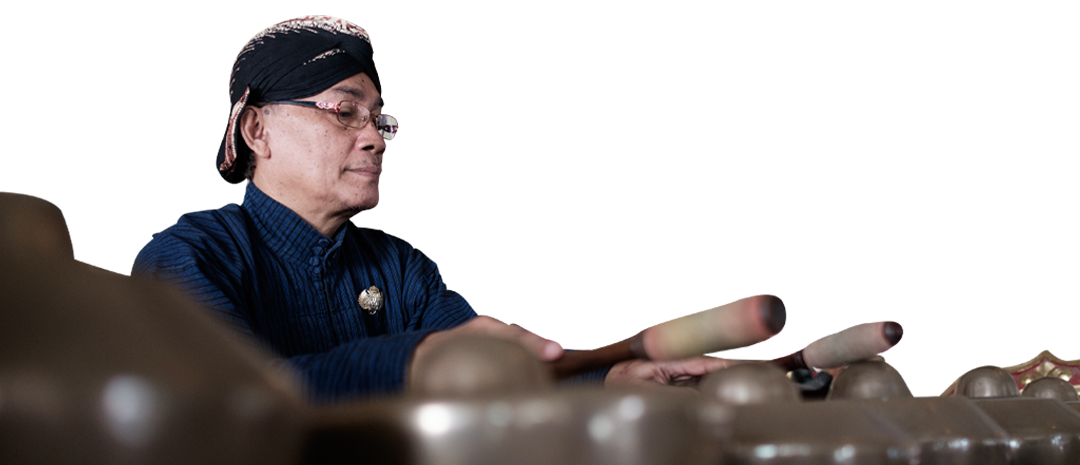
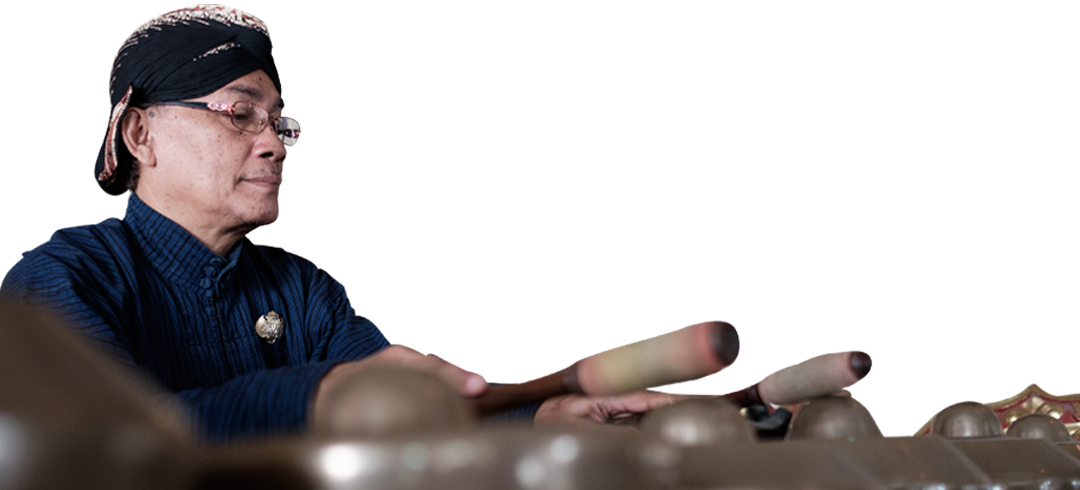
section 3 new

diff --git a/warisan-budaya-takbenda-indonesia-wbtbi-apa-itu/src/components/custom-components/CustomImageC.tsx b/warisan-budaya-takbenda-indonesia-wbtbi-apa-itu/src/components/custom-components/CustomImageC.tsx
@@ -3,18 +3,37 @@
 import { baseUrl } from "@/constants/meta";
 import { motion } from "framer-motion";
 
+const fadeUp = {
+  hidden: { opacity: 0, y: 40 },
+  visible: { opacity: 1, y: 0 },
+};
+
+const listContainer = {
+  hidden: {},
+  visible: {
+    transition: {
+      staggerChildren: 0.08,
+    },
+  },
+};
+
+const listItem = {
+  hidden: { opacity: 0, y: 20 },
+  visible: { opacity: 1, y: 0 },
+};
+
 export function CustomImageC() {
   return (
     <div className="relative flex flex-col items-center overflow-hidden">
       <div className="absolute h-[10rem] bg-gradient-to-b from-[#f6f0fa] z-20 w-full inset-x-0 top-0"></div>
-      <div className="absolute h-[10rem] bg-gradient-to-t from-[#d9dcf2] z-20 w-full inset-x-0 bottom-0"></div>
+      <div className="absolute h-[10rem] bg-gradient-to-t from-[#d9dcf2] z-40 w-full inset-x-0 bottom-0"></div>
       <div
         className="relative w-full justify-center bg-cover bg-center pt-16 md:pt-24"
         style={{ backgroundImage: `url(${baseUrl}/assets/3.8.png)` }}
       >
-        <div className="relative mx-auto max-w-4xl lg:px-0 px-4">
+        <div className="relative mx-auto max-w-4xl lg:px-0 px-4 z-10">
           <motion.div
-            className="md:hidden bg-white px-4 md:px-8 py-4 md:py-6 w-[88%]"
+            className="bg-white px-4 md:px-8 py-4 md:py-6 w-[88%]"
             initial={{ opacity: 0, y: 40 }}
             whileInView={{ opacity: 1, y: 0 }}
             transition={{ duration: 0.8, ease: "easeOut" }}
@@ -26,197 +45,161 @@ export function CustomImageC() {
             <motion.p className="font-sora text-[#2A2828] text-base md:text-2xl !leading-relaxed w-full md:w-[76%]">
               Ada sejumlah WBTbI yang telah diakui sebagai Intangible Cultural Heritage (IHC) oleh Organisasi Pendidikan, Keilmuan, dan Kebudayaan PBB (UNESCO)            </motion.p>
           </motion.div>
-          <motion.img
-            src={`${baseUrl}/assets/3.1.png`}
-            alt="reog ponorogo"
-            className="relative md:static mx-auto w-[80%] lg:mt-0 md:mt-20 md:pb-20 lg:pb-0 z-20"
-            initial={{ opacity: 0, y: 40 }}
-            whileInView={{ opacity: 1, y: 0 }}
-            transition={{ duration: 0.8, ease: "easeOut" }}
-            viewport={{ once: true }}
-          />
-          <motion.div
-            className="hidden md:block absolute md:-top-24 lg:top-8 left-0 bg-white px-4 md:px-8 py-4 md:py-6 w-[88%]"
-            initial={{ opacity: 0, y: 40 }}
-            whileInView={{ opacity: 1, y: 0 }}
-            transition={{ duration: 0.8, ease: "easeOut" }}
-            viewport={{ once: true }}
-          >
-            <motion.h2 className="font-sora text-[#C02220] font-bold text-3xl md:text-[52px] mb-2 lg:mb-6 md:!leading-snug leading-snug">
-              Warisan Budaya Takbenda Indonesia Mendunia!
-            </motion.h2>
-            <motion.p className="font-sora text-[#2A2828] text-base md:text-2xl leading-relaxed w-[76%]">
-              Ada sejumlah WBTbI yang telah diakui sebagai Intangible Cultural Heritage (IHC) oleh Organisasi Pendidikan, Keilmuan, dan Kebudayaan PBB (UNESCO)            </motion.p>
-          </motion.div>
-          <motion.img
-            src={`${baseUrl}/assets/3.2.png`}
-            alt="penari"
-            className="hidden md:block absolute top-[20%] right-0 w-[38%]"
-            initial={{ opacity: 0, y: 40 }}
-            whileInView={{ opacity: 1, y: 0 }}
-            transition={{ duration: 0.8, ease: "easeOut", delay: 0.2 }}
-            viewport={{ once: true }}
-          />
-          <div className="flex absolute bottom-0 items-end">
+        </div>
+        <div className="relative mx-auto max-w-4xl">
+          <div className="relative flex flex-col md:flex-row items-center md:items-stretch">
             <motion.div
-              className="hidden md:block bottom-0 left-0 w-[40%] bg-[#EACD86] px-4 md:px-6 py-4 md:py-6"
-              initial={{ opacity: 0, y: 40 }}
-              whileInView={{ opacity: 1, y: 0 }}
-              transition={{ duration: 0.8, ease: "easeOut" }}
+              className="w-full md:w-[40%] px-4 md:px-6 py-4 md:py-12 bg-[#862625]"
+              initial="hidden"
+              whileInView="visible"
               viewport={{ once: true }}
+              transition={{ duration: 0.6, ease: "easeOut" }}
             >
               <motion.p
-                className="font-sora text-[#2A2828] text-base md:text-2xl leading-relaxed"
-                initial={{ opacity: 0, y: 20 }}
-                whileInView={{ opacity: 1, y: 0 }}
-                transition={{ duration: 0.6, ease: "easeOut", delay: 0.2 }}
-                viewport={{ once: true }}
+                variants={fadeUp}
+                className="font-sora text-white font-bold text-2xl md:text-4xl lg:text-[30px] mb-6 md:mb-14 md:!leading-[1.2] leading-snug w-full"
               >
-                Setidaknya terdapat 16 WBTbI yang diakui sebagai IHC UNESCO
+                WBTbI yang sudah diinkripsi UNESCO
               </motion.p>
-              <motion.p
-                className="font-sora mt-6 text-[#2A2828] text-base md:text-2xl leading-relaxed md:mb-10"
-                initial={{ opacity: 0, y: 20 }}
-                whileInView={{ opacity: 1, y: 0 }}
-                transition={{ duration: 0.6, ease: "easeOut", delay: 0.4 }}
-                viewport={{ once: true }}
+              <motion.div
+                className="font-sora text-white text-base md:text-2xl leading-relaxed mb-4 md:mb-6"
+                variants={listContainer}
               >
-                Terbaru, Reog Ponorogo, Kebaya, dan Kolintang, mendapat pengakuan pada Desember 2024 lalu
-              </motion.p>
+                {[
+                  ["Keris", 2008],
+                  ["Wayang", 2008],
+                  ["Batik", 2009],
+                  ["Pendidikan dan Pelatihan Batik", 2009],
+                  ["Angklung", 2010],
+                  ["Tari Saman", 2011],
+                  ["Noken", 2012],
+                  ["Tiga Genre Tarian Tradisional Bali", 2015],
+                  ["Pinisi", 2017],
+                  ["Pencak Silat", 2019],
+                  ["Pantun", 2020],
+                  ["Gamelan", 2021],
+                  ["Jamu", 2023],
+                  ["Reog Ponorogo", 2024],
+                  ["Kebaya", 2024],
+                  ["Kolintang", 2024],
+                ].map(([title, year], index) => (
+                  <motion.p key={index} className="mb-2" variants={listItem}>
+                    <span className="font-bold">{title}</span> ({year})
+                  </motion.p>
+                ))}
+              </motion.div>
             </motion.div>
+            <div className="relative w-full md:w-1/2 pb-[50%] lg:pb-[36%]">
+              <div className="relative md:pb-4 z-20">
+                <div className="relative overflow-hidden">
+                  <motion.img
+                    src={`${baseUrl}/assets/3.1.png`}
+                    alt="reog ponorogo"
+                    className="-mt-40 w-full"
+                    initial={{ opacity: 0, y: 40 }}
+                    whileInView={{ opacity: 1, y: 0 }}
+                    transition={{ duration: 0.8, ease: "easeOut" }}
+                    viewport={{ once: true }}
+                  />
+                </div>
+                <div className="absolute -top-[60%] -right-10 md:-right-20 w-[60%] md:w-[70%] z-10">
+                  <motion.img
+                    src={`${baseUrl}/assets/3.2.png`}
+                    alt="penari"
+                    className="w-full"
+                    initial={{ opacity: 0, y: 40 }}
+                    whileInView={{ opacity: 1, y: 0 }}
+                    transition={{ duration: 0.8, ease: "easeOut", delay: 0.2 }}
+                    viewport={{ once: true }}
+                  />
+                </div>
+                <div className="absolute -bottom-9 -left-20 w-[75%] md:w-[85%]">
+                  <motion.img
+                    src={`${baseUrl}/assets/3.5.png`}
+                    alt="penari"
+                    className=""
+                    initial={{ opacity: 0, y: 80, scale: 1 }}
+                    whileInView={{ opacity: 1, y: 0, scale: 1 }}
+                    transition={{
+                      duration: 1.1,
+                      ease: [0.22, 1, 0.36, 1],
+                      delay: 0.2,
+                    }}
+                    viewport={{ once: true }}
+                  />
+                </div>
+                <motion.img
+                  src={`${baseUrl}/assets/3.3.png`}
+                  alt="Silat"
+                  className="absolute right-0 md:-right-10 bottom-0 z-40 w-[80%]"
+                  initial={{ opacity: 0, scale: 1, y: 40 }}
+                  whileInView={{ opacity: 1, scale: 1.25, y: 0 }}
+                  transition={{ duration: 0.8, ease: 'easeOut', delay: 0.6 }}
+                  viewport={{ once: true }}
+                />
+              </div>
+              <div className="w-full mb-4 md:mb-20 z-40 pl-4 md:pl-10 pt-6 md:pt-14">
+                <motion.h3 className="font-sora text-[#C02220] md:mt-0 mt-[10%] font-bold text-2xl md:text-4xl lg:text-[36px] mb-6 md:mb-8 md:!leading-[1.2] leading-snug w-full"
+                  initial={{ opacity: 0, y: 40 }}
+                  whileInView={{ opacity: 1, y: 0 }}
+                  transition={{ duration: 0.8, ease: "easeOut" }}
+                  viewport={{ once: true }}>
+                  Mengapa pengakuan internasional atas WBTbI penting?
+                </motion.h3>
+                <motion.p className="font-sora text-[#2A2828] text-base md:text-2xl mb-6 md:mb-8 leading-relaxed w-full"
+                  initial={{ opacity: 0, y: 40 }}
+                  whileInView={{ opacity: 1, y: 0 }}
+                  transition={{ duration: 0.8, ease: "easeOut", delay: 0.2 }}
+                  viewport={{ once: true }}>
+                  Menegaskan identitas bangsa dan membentuk citra Indonesia sebagai bangsa kaya akan keberagaman budaya
+                </motion.p>
+                <motion.p className="font-sora text-[#2A2828] text-base md:text-2xl mb-6 md:mb-8 leading-relaxed w-full"
+                  initial={{ opacity: 0, y: 40 }}
+                  whileInView={{ opacity: 1, y: 0 }}
+                  transition={{ duration: 0.8, ease: "easeOut", delay: 0.2 }}
+                  viewport={{ once: true }}>
+                  Medium diplomasi lunak <span className="italic"><br />(soft power diplomacy)  </span>   </motion.p>
+                <motion.p className="font-sora text-[#2A2828] text-base md:text-2xl mb-6 md:mb-8 leading-relaxed w-full"
+                  initial={{ opacity: 0, y: 40 }}
+                  whileInView={{ opacity: 1, y: 0 }}
+                  transition={{ duration: 0.8, ease: "easeOut", delay: 0.2 }}
+                  viewport={{ once: true }}>
+                  Mendorong perekonomian dengan mengemas budaya sebagai daya tarik wisata dan ekonomi kreatif</motion.p>
+              </div>
+            </div>
+          </div>
+          <div className="">
             <motion.img
-              src={`${baseUrl}/assets/3.2.png`}
-              alt="penari"
-              className="md:hidden absolute bottom-0 z-40 left-0 w-[30%]"
+              src={`${baseUrl}/assets/3.4.png`}
+              alt="Silat"
+              className="absolute right-0 md:-right-20 bottom-3 md:bottom-0 z-20 w-[30%]"
+              initial={{ opacity: 0, scale: 1, y: 40 }}
+              whileInView={{ opacity: 1, scale: 1.25, y: 0 }}
+              transition={{ duration: 0.8, ease: 'easeOut', delay: 0.6 }}
+              viewport={{ once: true }}
+            />
+            <motion.img
+              src={`${baseUrl}/assets/3.9.png`}
+              alt="Jamu"
+              className="absolute  left-[55%] bottom-10 md:bottom-28 z-10 w-[25%] md:w-[25%]"
               initial={{ opacity: 0, y: 40 }}
-              whileInView={{ opacity: 1, y: 0 }}
-              transition={{ duration: 0.8, ease: "easeOut", delay: 0.2 }}
+              whileInView={{ opacity: 1, scale: 1.6, y: 0 }}
+              transition={{ duration: 0.8, ease: "easeOut", delay: 0.4 }}
               viewport={{ once: true }}
             />
             <motion.img
-              src={`${baseUrl}/assets/3.3.png`}
-              alt="reog ponorogo"
-              className="w-[60%] ml-auto md:ml-0 z-30"
-              initial={{ opacity: 0, y: 80, scale: 0.95 }}
-              whileInView={{ opacity: 1, y: 0, scale: 1 }}
-              transition={{
-                duration: 1.1,
-                ease: [0.22, 1, 0.36, 1],
-                delay: 0.2,
-              }}
+              src={`${baseUrl}/assets/3.6.png`}
+              alt="Orang"
+              className="absolute left-[35%] md:left-[35%] bottom-0 z-30 w-[35%] md:w-[40%]"
+              initial={{ opacity: 0, y: 40 }}
+              whileInView={{ opacity: 1, scale: 1.6, y: 0 }}
+              transition={{ duration: 0.8, ease: "easeOut", delay: 0.4 }}
               viewport={{ once: true }}
             />
-          </div>
-        </div>
-        <motion.div
-          className="md:hidden bottom-0 left-0 w-full bg-[#EACD86] px-4 md:px-6 py-4 md:py-6"
-          initial={{ opacity: 0, y: 40 }}
-          whileInView={{ opacity: 1, y: 0 }}
-          transition={{ duration: 0.8, ease: "easeOut" }}
-          viewport={{ once: true }}
-        >
-          <motion.p
-            className="font-sora text-[#2A2828] text-base md:text-2xl leading-relaxed"
-            initial={{ opacity: 0, y: 20 }}
-            whileInView={{ opacity: 1, y: 0 }}
-            transition={{ duration: 0.6, ease: "easeOut", delay: 0.2 }}
-            viewport={{ once: true }}
-          >
-            Setidaknya terdapat 16 WBTbI yang diakui sebagai IHC UNESCO
-          </motion.p>
-          <motion.p
-            className="font-sora mt-6 text-[#2A2828] text-base md:text-2xl leading-relaxed md:mb-10"
-            initial={{ opacity: 0, y: 20 }}
-            whileInView={{ opacity: 1, y: 0 }}
-            transition={{ duration: 0.6, ease: "easeOut", delay: 0.4 }}
-            viewport={{ once: true }}
-          >
-            Terbaru, Reog Ponorogo, Kebaya, dan Kolintang, mendapat pengakuan pada Desember 2024 lalu
-          </motion.p>
-        </motion.div>
-        <div className="relative pt-10 md:py-8 max-w-4xl mx-auto px-4 lg:px-0">
-          <div className="flex flex-col-reverse md:flex-row">
-            <div className="relative w-full md:w-1/2">
-              <motion.img
-                src={`${baseUrl}/assets/3.4.png`}
-                alt="Silat"
-                className="w-[50%] mb-8 md:-mt-20"
-                initial={{ opacity: 0, y: 40 }}
-                whileInView={{ opacity: 1, y: 0 }}
-                transition={{ duration: 0.8, ease: "easeOut" }}
-                viewport={{ once: true }}
-              />
-              <motion.img
-                src={`${baseUrl}/assets/3.5.png`}
-                alt="Penari"
-                className="hidden md:block absolute top-32 lg:top-20 -right-4"
-                initial={{ opacity: 0, y: 40 }}
-                whileInView={{ opacity: 1, scale: 1.25, y: 0 }}
-                transition={{ duration: 0.8, ease: "easeOut", delay: 0.2 }}
-                viewport={{ once: true }}
-              />
-              <motion.img
-                src={`${baseUrl}/assets/3.5.png`}
-                alt="Penari"
-                className="md:hidden absolute top-32 lg:top-20 -right-4"
-                initial={{ opacity: 0, y: 40 }}
-                whileInView={{ opacity: 1, scale: 1, y: 0 }}
-                transition={{ duration: 0.8, ease: "easeOut", delay: 0.2 }}
-                viewport={{ once: true }}
-              />
-              <motion.img
-                src={`${baseUrl}/assets/3.6.png`}
-                alt="Orang"
-                className="hidden md:block absolute md:top-[46%] lg:top-[38%] md:left-0 lg:-left-6"
-                initial={{ opacity: 0, y: 40 }}
-                whileInView={{ opacity: 1, scale: 1.6, y: 0 }}
-                transition={{ duration: 0.8, ease: "easeOut", delay: 0.4 }}
-                viewport={{ once: true }}
-              />
-              <motion.img
-                src={`${baseUrl}/assets/3.6.png`}
-                alt="Orang"
-                className="md:hidden absolute bottom-0"
-                initial={{ opacity: 0, y: 40 }}
-                whileInView={{ opacity: 1, scale: 1, y: 0 }}
-                transition={{ duration: 0.8, ease: "easeOut", delay: 0.4 }}
-                viewport={{ once: true }}
-              />
-            </div>
-            <div className="w-full mb-4 md:mb-20 pl-0 md:pl-[4rem] z-40">
-              <motion.h3 className="font-sora text-[#C02220] font-bold text-2xl md:text-4xl lg:text-5xl mb-6 md:mb-8 md:!leading-[1.2] leading-snug w-full"
-                initial={{ opacity: 0, y: 40 }}
-                whileInView={{ opacity: 1, y: 0 }}
-                transition={{ duration: 0.8, ease: "easeOut" }}
-                viewport={{ once: true }}>
-                Mengapa pengakuan internasional atas WBTbI penting?
-              </motion.h3>
-              <motion.p className="lg:pr-[9rem] font-sora text-[#2A2828] text-base md:text-2xl mb-6 md:mb-8 leading-relaxed w-full"
-                initial={{ opacity: 0, y: 40 }}
-                whileInView={{ opacity: 1, y: 0 }}
-                transition={{ duration: 0.8, ease: "easeOut", delay: 0.2 }}
-                viewport={{ once: true }}>
-                Menegaskan identitas bangsa dan membentuk citra Indonesia sebagai bangsa kaya akan keberagaman budaya
-              </motion.p>
-              <motion.p className="font-sora text-[#2A2828] text-base md:text-2xl mb-6 md:mb-8 leading-relaxed w-full"
-                initial={{ opacity: 0, y: 40 }}
-                whileInView={{ opacity: 1, y: 0 }}
-                transition={{ duration: 0.8, ease: "easeOut", delay: 0.2 }}
-                viewport={{ once: true }}>
-                Medium diplomasi lunak <span className="italic"><br />(soft power diplomacy)  </span>   </motion.p>
-              <motion.p className="lg:pr-[26%] font-sora text-[#2A2828] text-base md:text-2xl mb-6 md:mb-8 leading-relaxed w-full"
-                initial={{ opacity: 0, y: 40 }}
-                whileInView={{ opacity: 1, y: 0 }}
-                transition={{ duration: 0.8, ease: "easeOut", delay: 0.2 }}
-                viewport={{ once: true }}>
-                Mendorong perekonomian dengan mengemas budaya sebagai daya tarik wisata dan ekonomi kreatif</motion.p>
-            </div>
-          </div>
-          <div className="relative pt-10 md:py-8 max-w-4xl mx-auto px-4 lg:px-0">
             <motion.img
               src={`${baseUrl}/assets/3.7.png`}
-              alt="Silat"
-              className="absolute bottom-3 md:bottom-0 z-20 w-full max-w-4xl"
+              alt="Gamelan"
+              className="absolute bottom-3 md:bottom-0 z-30 left-0  w-full max-w-4xl"
               initial={{ opacity: 0, scale: 1, y: 40 }}
               whileInView={{ opacity: 1, scale: 1.25, y: 0 }}
               transition={{ duration: 0.8, ease: 'easeOut', delay: 0.6 }}
